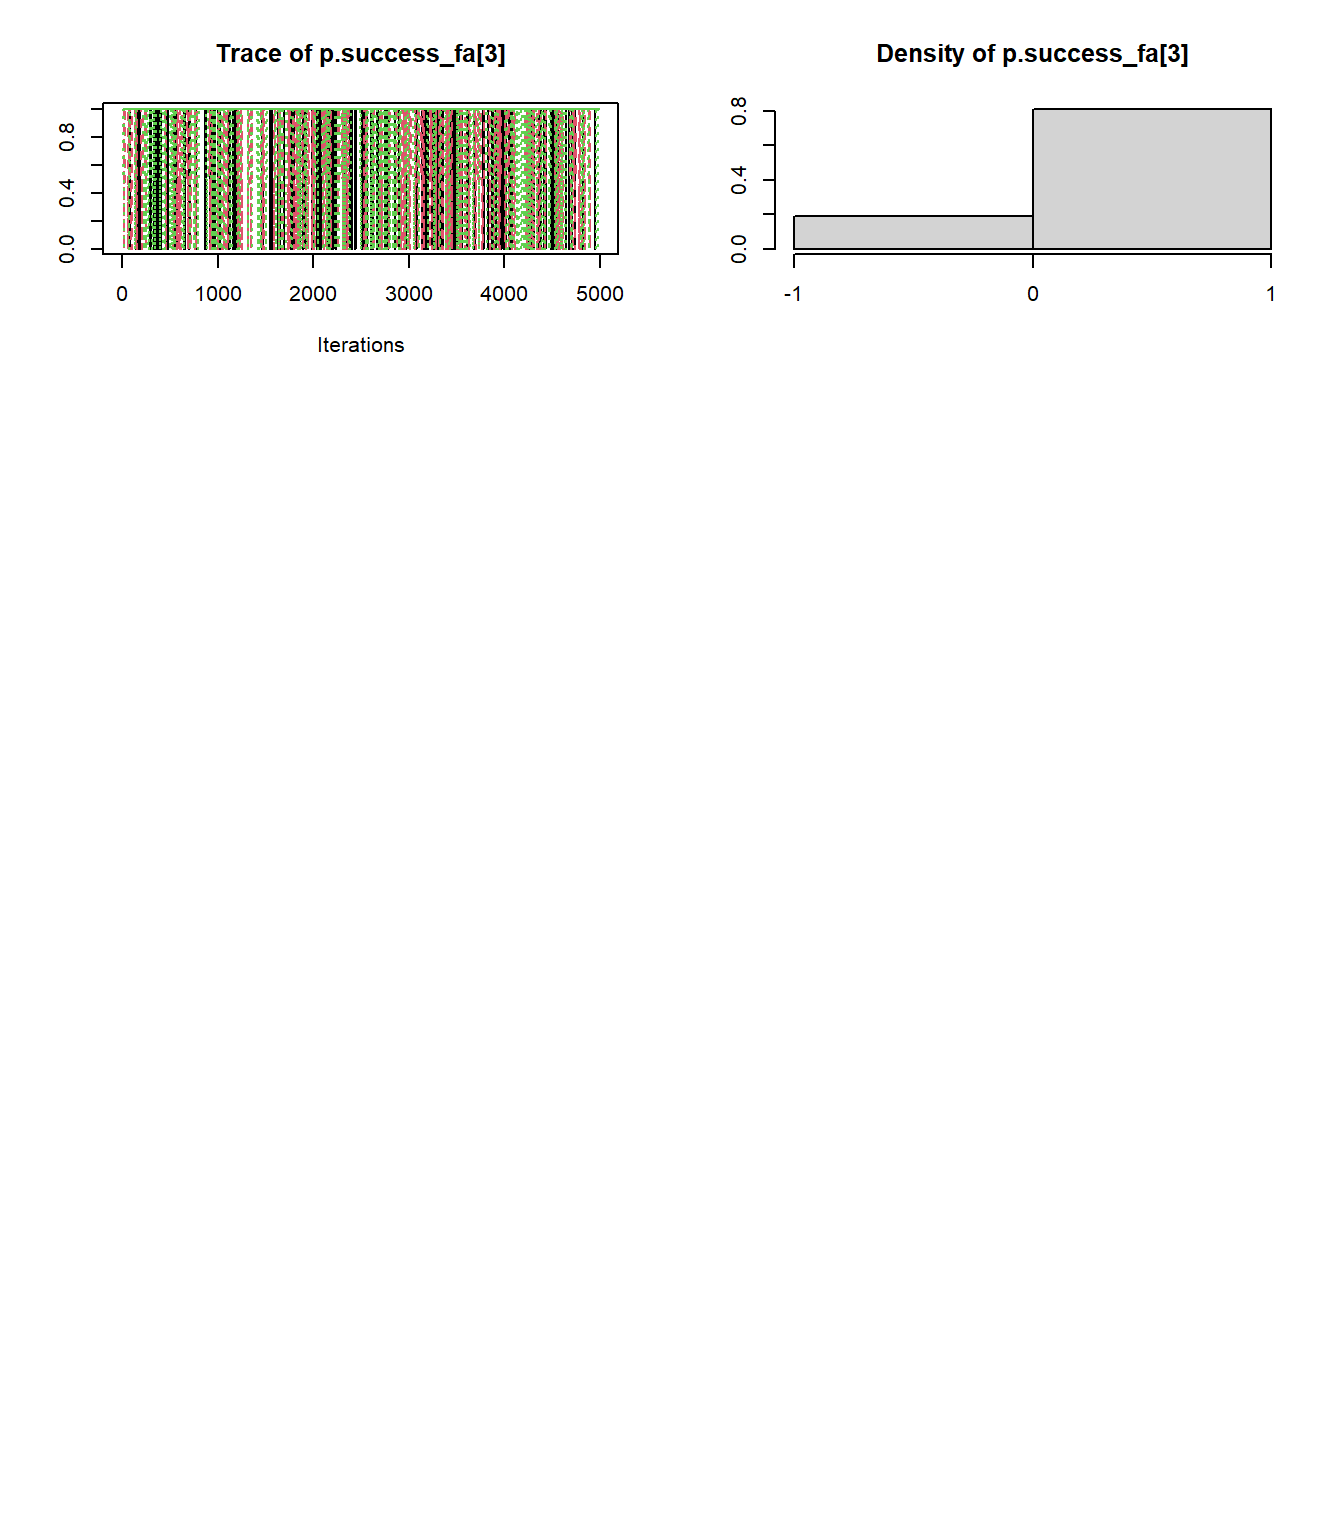
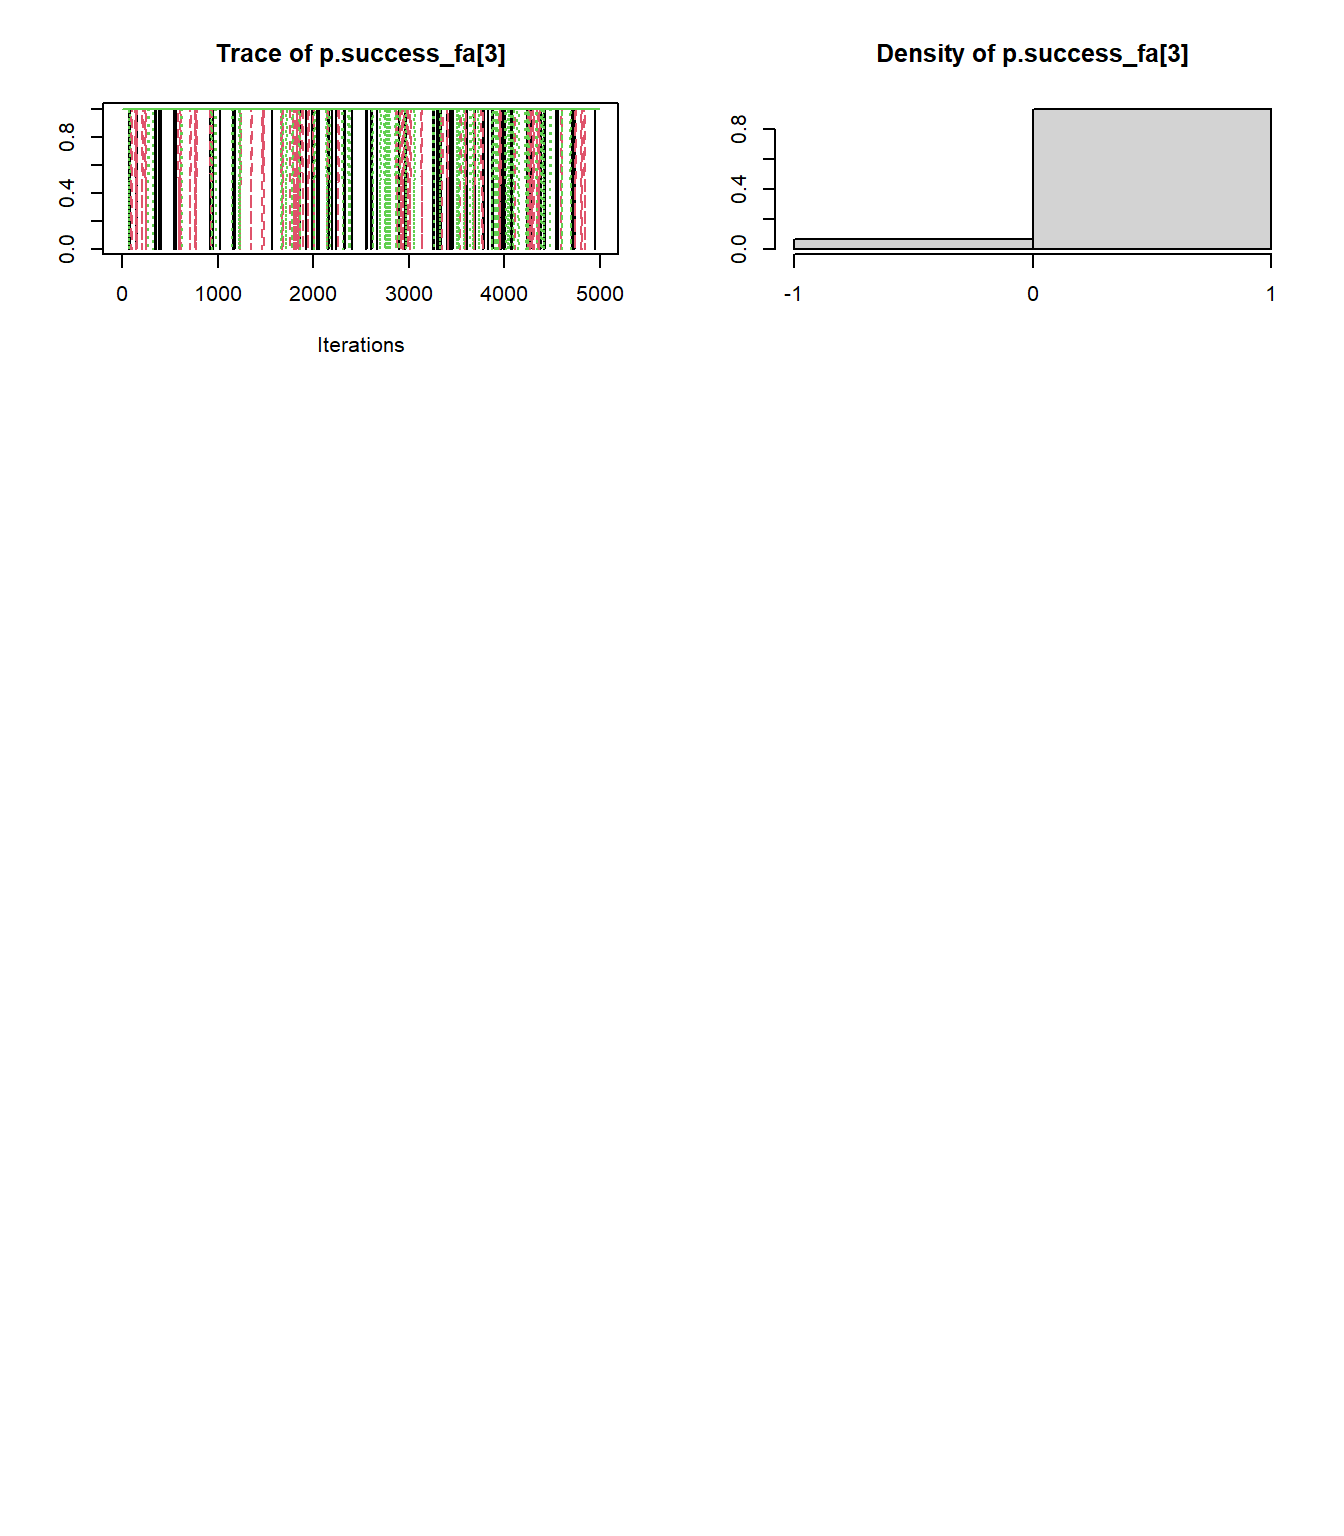
aaa

Changed region(s): [[0.0938, 0.0625, 0.4375, 0.1875], [0.5938, 0.125, 0.7812, 0.1562], [0.5312, 0.0625, 0.5625, 0.125]]

diff --git a/1_Bouquet_Borrowing_X_Cohort.html b/1_Bouquet_Borrowing_X_Cohort.html
@@ -344,10 +344,11 @@ binary_exnex_model2 &lt;- function() {
     }    
   }
 
-  # predictive part
+  # predictive part, not exactly the same as Appendix 5 in protocol but should be ~
   for (i in 1:Nstrata) {  
-    r_fa[i] ~ dbin(p[i], n_fa[i])
-    p.fa[i] &lt;- r_fa[i]/n_fa[i]
+    # r_fa[i] ~ dbin(p[i], n_fa[i])
+    r_ex[i] ~ dbin(p[i], n_fa[i]-n[i])
+    p.fa[i] &lt;- (r_ex[i]+r[i])/n_fa[i]
     p.success_fa[i]  &lt;- step(p.fa[i]-p.cut)
   }
   
@@ -419,7 +420,7 @@ binary_exnex_jag2 &lt;- jags(data = data_binary_exnex_model2,
 ## Graph information:
 ##    Observed stochastic nodes: 3
 ##    Unobserved stochastic nodes: 28
-##    Total graph size: 112
+##    Total graph size: 118
 ## 
 ## Initializing model</code></pre>
 <pre class="r"><code>print(binary_exnex_jag2)</code></pre>
@@ -430,15 +431,15 @@ binary_exnex_jag2 &lt;- jags(data = data_binary_exnex_model2,
 ## p[1]              0.164   0.069 0.050 0.113  0.156  0.207  0.317 1.001  3000
 ## p[2]              0.154   0.064 0.048 0.107  0.148  0.193  0.291 1.004  1100
 ## p[3]              0.220   0.079 0.090 0.162  0.212  0.269  0.395 1.001  3000
-## p.fa[1]           0.162   0.084 0.020 0.100  0.160  0.220  0.360 1.001  3000
-## p.fa[2]           0.155   0.080 0.020 0.100  0.140  0.200  0.320 1.001  3000
-## p.fa[3]           0.221   0.099 0.060 0.140  0.220  0.280  0.440 1.001  3000
+## p.fa[1]           0.160   0.057 0.080 0.120  0.160  0.200  0.300 1.001  3000
+## p.fa[2]           0.150   0.052 0.060 0.120  0.140  0.180  0.260 1.001  2800
+## p.fa[3]           0.233   0.066 0.120 0.180  0.220  0.280  0.380 1.001  3000
 ## p.success[1]      0.536   0.499 0.000 0.000  1.000  1.000  1.000 1.001  3000
 ## p.success[2]      0.491   0.500 0.000 0.000  0.000  1.000  1.000 1.002  1200
 ## p.success[3]      0.802   0.398 0.000 1.000  1.000  1.000  1.000 1.002  1300
-## p.success_fa[1]   0.510   0.500 0.000 0.000  1.000  1.000  1.000 1.001  3000
-## p.success_fa[2]   0.484   0.500 0.000 0.000  0.000  1.000  1.000 1.001  3000
-## p.success_fa[3]   0.746   0.436 0.000 0.000  1.000  1.000  1.000 1.001  3000
+## p.success_fa[1]   0.520   0.500 0.000 0.000  1.000  1.000  1.000 1.001  3000
+## p.success_fa[2]   0.448   0.497 0.000 0.000  0.000  1.000  1.000 1.002  1900
+## p.success_fa[3]   0.915   0.279 0.000 1.000  1.000  1.000  1.000 1.001  3000
 ## pMix[1,1]         0.341   0.129 0.098 0.255  0.339  0.425  0.599 1.001  3000
 ## pMix[2,1]         0.348   0.133 0.086 0.257  0.349  0.436  0.615 1.001  3000
 ## pMix[3,1]         0.311   0.126 0.068 0.222  0.312  0.395  0.562 1.004  1700
@@ -467,29 +468,29 @@ binary_exnex_mcmc2 %&gt;% summary</code></pre>
 ## 1. Empirical mean and standard deviation for each variable,
 ##    plus standard error of the mean:
 ## 
-##                    Mean      SD Naive SE Time-series SE
-## deviance        11.2204 1.98427 0.036228       0.039478
-## p[1]             0.1638 0.06938 0.001267       0.001311
-## p[2]             0.1539 0.06370 0.001163       0.001174
-## p[3]             0.2196 0.07901 0.001443       0.001615
-## p.fa[1]          0.1622 0.08426 0.001538       0.001563
-## p.fa[2]          0.1549 0.07976 0.001456       0.001468
-## p.fa[3]          0.2215 0.09864 0.001801       0.001873
-## p.success[1]     0.5357 0.49881 0.009107       0.009095
-## p.success[2]     0.4913 0.50001 0.009129       0.009204
-## p.success[3]     0.8023 0.39831 0.007272       0.007776
-## p.success_fa[1]  0.5103 0.49998 0.009128       0.009131
-## p.success_fa[2]  0.4837 0.49982 0.009125       0.009272
-## p.success_fa[3]  0.7457 0.43556 0.007952       0.007964
-## pMix[1,1]        0.3408 0.12935 0.002362       0.002362
-## pMix[2,1]        0.3477 0.13303 0.002429       0.002687
-## pMix[3,1]        0.3115 0.12624 0.002305       0.002405
-## pMix[1,2]        0.3412 0.13472 0.002460       0.002546
-## pMix[2,2]        0.3455 0.13347 0.002437       0.002374
-## pMix[3,2]        0.3133 0.12850 0.002346       0.002222
-## pMix[1,3]        0.3378 0.13533 0.002471       0.002471
-## pMix[2,3]        0.3485 0.13557 0.002475       0.002476
-## pMix[3,3]        0.3137 0.12983 0.002370       0.002429
+##                    Mean      SD  Naive SE Time-series SE
+## deviance        11.2204 1.98427 0.0362276      0.0394784
+## p[1]             0.1638 0.06938 0.0012667      0.0013111
+## p[2]             0.1539 0.06370 0.0011629      0.0011741
+## p[3]             0.2196 0.07901 0.0014426      0.0016151
+## p.fa[1]          0.1603 0.05747 0.0010493      0.0010665
+## p.fa[2]          0.1498 0.05207 0.0009506      0.0009218
+## p.fa[3]          0.2334 0.06598 0.0012046      0.0012473
+## p.success[1]     0.5357 0.49881 0.0091070      0.0090947
+## p.success[2]     0.4913 0.50001 0.0091289      0.0092044
+## p.success[3]     0.8023 0.39831 0.0072720      0.0077760
+## p.success_fa[1]  0.5200 0.49968 0.0091229      0.0086369
+## p.success_fa[2]  0.4483 0.49741 0.0090814      0.0087323
+## p.success_fa[3]  0.9147 0.27942 0.0051016      0.0051028
+## pMix[1,1]        0.3408 0.12935 0.0023616      0.0023619
+## pMix[2,1]        0.3477 0.13303 0.0024289      0.0026866
+## pMix[3,1]        0.3115 0.12624 0.0023048      0.0024053
+## pMix[1,2]        0.3412 0.13472 0.0024597      0.0025460
+## pMix[2,2]        0.3455 0.13347 0.0024368      0.0023736
+## pMix[3,2]        0.3133 0.12850 0.0023461      0.0022220
+## pMix[1,3]        0.3378 0.13533 0.0024707      0.0024709
+## pMix[2,3]        0.3485 0.13557 0.0024751      0.0024757
+## pMix[3,3]        0.3137 0.12983 0.0023704      0.0024295
 ## 
 ## 2. Quantiles for each variable:
 ## 
@@ -498,15 +499,15 @@ binary_exnex_mcmc2 %&gt;% summary</code></pre>
 ## p[1]            0.05005 0.1133  0.1565  0.2068  0.3175
 ## p[2]            0.04785 0.1074  0.1483  0.1934  0.2907
 ## p[3]            0.09022 0.1617  0.2119  0.2688  0.3954
-## p.fa[1]         0.02000 0.1000  0.1600  0.2200  0.3600
-## p.fa[2]         0.02000 0.1000  0.1400  0.2000  0.3200
-## p.fa[3]         0.06000 0.1400  0.2200  0.2800  0.4400
+## p.fa[1]         0.08000 0.1200  0.1600  0.2000  0.3000
+## p.fa[2]         0.06000 0.1200  0.1400  0.1800  0.2600
+## p.fa[3]         0.12000 0.1800  0.2200  0.2800  0.3800
 ## p.success[1]    0.00000 0.0000  1.0000  1.0000  1.0000
 ## p.success[2]    0.00000 0.0000  0.0000  1.0000  1.0000
 ## p.success[3]    0.00000 1.0000  1.0000  1.0000  1.0000
 ## p.success_fa[1] 0.00000 0.0000  1.0000  1.0000  1.0000
 ## p.success_fa[2] 0.00000 0.0000  0.0000  1.0000  1.0000
-## p.success_fa[3] 0.00000 0.0000  1.0000  1.0000  1.0000
+## p.success_fa[3] 0.00000 1.0000  1.0000  1.0000  1.0000
 ## pMix[1,1]       0.09829 0.2547  0.3386  0.4251  0.5987
 ## pMix[2,1]       0.08593 0.2575  0.3489  0.4360  0.6152
 ## pMix[3,1]       0.06813 0.2217  0.3122  0.3953  0.5620
@@ -602,12 +603,14 @@ binary_exnex_model &lt;- function() {
     r[i] ~ dbin(p[i],n[i])
   }
 
-  # predictive part
+  # predictive part, not exactly the same as Appendix 5 in protocol but should be ~
   for (i in 1:Nstrata) {  
-    r_fa[i] ~ dbin(p[i], n_fa[i])
-    p.fa[i] &lt;- r_fa[i]/n_fa[i]
+    # r_fa[i] ~ dbin(p[i], n_fa[i])
+    r_ex[i] ~ dbin(p[i], n_fa[i]-n[i])
+    p.fa[i] &lt;- (r_ex[i]+r[i])/n_fa[i]
     p.success_fa[i]  &lt;- step(p.fa[i]-p.cut)
   }
+  
 } # end of binary_exnex_model
 
 write.model(binary_exnex_model, &#39;binary_exnex_model.bug&#39;)
@@ -660,7 +663,7 @@ binary_ex_jag &lt;- jags(data = data_binary_ex_model,
 ## Graph information:
 ##    Observed stochastic nodes: 3
 ##    Unobserved stochastic nodes: 19
-##    Total graph size: 97
+##    Total graph size: 103
 ## 
 ## Initializing model</code></pre>
 <pre class="r"><code>print(binary_ex_jag)</code></pre>
@@ -671,15 +674,15 @@ binary_ex_jag &lt;- jags(data = data_binary_ex_model,
 ## p[1]              0.171   0.063 0.062 0.127  0.165  0.210  0.310 1.001  3000
 ## p[2]              0.166   0.061 0.066 0.122  0.160  0.202  0.308 1.003   830
 ## p[3]              0.203   0.070 0.091 0.153  0.193  0.243  0.366 1.004   620
-## p.fa[1]           0.171   0.082 0.040 0.120  0.160  0.220  0.360 1.001  3000
-## p.fa[2]           0.166   0.081 0.040 0.100  0.160  0.220  0.340 1.001  2000
-## p.fa[3]           0.202   0.088 0.060 0.140  0.200  0.260  0.400 1.003   870
+## p.fa[1]           0.166   0.057 0.080 0.120  0.160  0.200  0.300 1.001  3000
+## p.fa[2]           0.157   0.053 0.060 0.120  0.160  0.180  0.280 1.002  1800
+## p.fa[3]           0.221   0.059 0.120 0.180  0.220  0.260  0.360 1.002  1500
 ## p.success[1]      0.594   0.491 0.000 0.000  1.000  1.000  1.000 1.001  3000
 ## p.success[2]      0.573   0.495 0.000 0.000  1.000  1.000  1.000 1.003   880
 ## p.success[3]      0.767   0.423 0.000 1.000  1.000  1.000  1.000 1.002  1400
-## p.success_fa[1]   0.560   0.496 0.000 0.000  1.000  1.000  1.000 1.001  3000
-## p.success_fa[2]   0.542   0.498 0.000 0.000  1.000  1.000  1.000 1.002  1300
-## p.success_fa[3]   0.698   0.459 0.000 0.000  1.000  1.000  1.000 1.001  3000
+## p.success_fa[1]   0.575   0.494 0.000 0.000  1.000  1.000  1.000 1.001  3000
+## p.success_fa[2]   0.508   0.500 0.000 0.000  1.000  1.000  1.000 1.002  1600
+## p.success_fa[3]   0.904   0.294 0.000 1.000  1.000  1.000  1.000 1.003  1500
 ## deviance         11.016   1.824 9.059 9.797 10.485 11.670 16.103 1.001  3000
 ## 
 ## For each parameter, n.eff is a crude measure of effective sample size,
@@ -704,15 +707,15 @@ binary_ex_mcmc %&gt;% summary</code></pre>
 ## p[1]             0.1706 0.06302 0.001151       0.001403
 ## p[2]             0.1659 0.06123 0.001118       0.001955
 ## p[3]             0.2033 0.07032 0.001284       0.002235
-## p.fa[1]          0.1708 0.08212 0.001499       0.001607
-## p.fa[2]          0.1664 0.08062 0.001472       0.002095
-## p.fa[3]          0.2016 0.08831 0.001612       0.002446
+## p.fa[1]          0.1662 0.05694 0.001040       0.001096
+## p.fa[2]          0.1567 0.05329 0.000973       0.001346
+## p.fa[3]          0.2207 0.05930 0.001083       0.001556
 ## p.success[1]     0.5940 0.49117 0.008967       0.010056
 ## p.success[2]     0.5727 0.49477 0.009033       0.013567
 ## p.success[3]     0.7667 0.42302 0.007723       0.010727
-## p.success_fa[1]  0.5600 0.49647 0.009064       0.010249
-## p.success_fa[2]  0.5417 0.49834 0.009098       0.013113
-## p.success_fa[3]  0.6980 0.45920 0.008384       0.010272
+## p.success_fa[1]  0.5753 0.49437 0.009026       0.009228
+## p.success_fa[2]  0.5077 0.50002 0.009129       0.012069
+## p.success_fa[3]  0.9043 0.29418 0.005371       0.005668
 ## 
 ## 2. Quantiles for each variable:
 ## 
@@ -721,15 +724,15 @@ binary_ex_mcmc %&gt;% summary</code></pre>
 ## p[1]            0.06250 0.1268  0.1648  0.2100  0.3096
 ## p[2]            0.06605 0.1223  0.1600  0.2020  0.3080
 ## p[3]            0.09142 0.1527  0.1930  0.2426  0.3657
-## p.fa[1]         0.04000 0.1200  0.1600  0.2200  0.3600
-## p.fa[2]         0.04000 0.1000  0.1600  0.2200  0.3400
-## p.fa[3]         0.06000 0.1400  0.2000  0.2600  0.4000
+## p.fa[1]         0.08000 0.1200  0.1600  0.2000  0.3000
+## p.fa[2]         0.06000 0.1200  0.1600  0.1800  0.2800
+## p.fa[3]         0.12000 0.1800  0.2200  0.2600  0.3600
 ## p.success[1]    0.00000 0.0000  1.0000  1.0000  1.0000
 ## p.success[2]    0.00000 0.0000  1.0000  1.0000  1.0000
 ## p.success[3]    0.00000 1.0000  1.0000  1.0000  1.0000
 ## p.success_fa[1] 0.00000 0.0000  1.0000  1.0000  1.0000
 ## p.success_fa[2] 0.00000 0.0000  1.0000  1.0000  1.0000
-## p.success_fa[3] 0.00000 0.0000  1.0000  1.0000  1.0000</code></pre>
+## p.success_fa[3] 0.00000 1.0000  1.0000  1.0000  1.0000</code></pre>
 <pre class="r"><code>binary_ex_mcmc %&gt;% gelman.plot</code></pre>
 <p><img src="1_Bouquet_Borrowing_X_Cohort_files/figure-html/unnamed-chunk-2-1.png" width="672" /><img src="1_Bouquet_Borrowing_X_Cohort_files/figure-html/unnamed-chunk-2-2.png" width="672" /></p>
 <pre class="r"><code>binary_ex_mcmc %&gt;% plot</code></pre>
@@ -746,7 +749,7 @@ binary_nex_jag &lt;- jags(data = data_binary_nex_model,
 ## Graph information:
 ##    Observed stochastic nodes: 3
 ##    Unobserved stochastic nodes: 19
-##    Total graph size: 97
+##    Total graph size: 103
 ## 
 ## Initializing model</code></pre>
 <pre class="r"><code>print(binary_nex_jag)</code></pre>
@@ -757,15 +760,15 @@ binary_nex_jag &lt;- jags(data = data_binary_nex_model,
 ## p[1]              0.158   0.081 0.035  0.098  0.146  0.209  0.344 1.001  3000
 ## p[2]              0.142   0.075 0.030  0.085  0.132  0.190  0.317 1.011   200
 ## p[3]              0.246   0.091 0.097  0.180  0.239  0.304  0.444 1.005   540
-## p.fa[1]           0.160   0.095 0.020  0.080  0.140  0.220  0.380 1.001  3000
-## p.fa[2]           0.142   0.089 0.020  0.080  0.120  0.200  0.360 1.010   210
-## p.fa[3]           0.247   0.108 0.060  0.160  0.240  0.320  0.480 1.003   670
+## p.fa[1]           0.159   0.064 0.060  0.120  0.150  0.200  0.300 1.001  3000
+## p.fa[2]           0.142   0.057 0.060  0.100  0.140  0.180  0.280 1.009   220
+## p.fa[3]           0.248   0.071 0.120  0.200  0.240  0.300  0.400 1.003   740
 ## p.success[1]      0.482   0.500 0.000  0.000  0.000  1.000  1.000 1.002  1900
 ## p.success[2]      0.409   0.492 0.000  0.000  0.000  1.000  1.000 1.010   220
 ## p.success[3]      0.852   0.355 0.000  1.000  1.000  1.000  1.000 1.003  1000
-## p.success_fa[1]   0.486   0.500 0.000  0.000  0.000  1.000  1.000 1.001  3000
-## p.success_fa[2]   0.417   0.493 0.000  0.000  0.000  1.000  1.000 1.006   340
-## p.success_fa[3]   0.812   0.391 0.000  1.000  1.000  1.000  1.000 1.005   600
+## p.success_fa[1]   0.500   0.500 0.000  0.000  0.500  1.000  1.000 1.001  3000
+## p.success_fa[2]   0.396   0.489 0.000  0.000  0.000  1.000  1.000 1.007   330
+## p.success_fa[3]   0.934   0.248 0.000  1.000  1.000  1.000  1.000 1.001  3000
 ## deviance         11.993   2.532 9.093 10.175 11.316 13.094 18.596 1.001  3000
 ## 
 ## For each parameter, n.eff is a crude measure of effective sample size,
@@ -790,15 +793,15 @@ binary_nex_mcmc %&gt;% summary</code></pre>
 ## p[1]             0.1582 0.08140 0.001486       0.001486
 ## p[2]             0.1422 0.07496 0.001369       0.003226
 ## p[3]             0.2461 0.09089 0.001659       0.002867
-## p.fa[1]          0.1597 0.09513 0.001737       0.001737
-## p.fa[2]          0.1424 0.08851 0.001616       0.003380
-## p.fa[3]          0.2469 0.10833 0.001978       0.003072
+## p.fa[1]          0.1593 0.06372 0.001163       0.001164
+## p.fa[2]          0.1424 0.05674 0.001036       0.002016
+## p.fa[3]          0.2484 0.07106 0.001297       0.001941
 ## p.success[1]     0.4820 0.49976 0.009124       0.009327
 ## p.success[2]     0.4087 0.49167 0.008977       0.017289
 ## p.success[3]     0.8517 0.35549 0.006490       0.009896
-## p.success_fa[1]  0.4857 0.49988 0.009126       0.008720
-## p.success_fa[2]  0.4170 0.49315 0.009004       0.015557
-## p.success_fa[3]  0.8117 0.39104 0.007139       0.008929
+## p.success_fa[1]  0.5000 0.50008 0.009130       0.008884
+## p.success_fa[2]  0.3960 0.48915 0.008931       0.014396
+## p.success_fa[3]  0.9343 0.24774 0.004523       0.005739
 ## 
 ## 2. Quantiles for each variable:
 ## 
@@ -807,13 +810,13 @@ binary_nex_mcmc %&gt;% summary</code></pre>
 ## p[1]            0.03546  0.09807  0.1460  0.2089  0.3444
 ## p[2]            0.02997  0.08499  0.1317  0.1901  0.3168
 ## p[3]            0.09680  0.17980  0.2388  0.3035  0.4441
-## p.fa[1]         0.02000  0.08000  0.1400  0.2200  0.3800
-## p.fa[2]         0.02000  0.08000  0.1200  0.2000  0.3600
-## p.fa[3]         0.06000  0.16000  0.2400  0.3200  0.4800
+## p.fa[1]         0.06000  0.12000  0.1500  0.2000  0.3000
+## p.fa[2]         0.06000  0.10000  0.1400  0.1800  0.2800
+## p.fa[3]         0.12000  0.20000  0.2400  0.3000  0.4000
 ## p.success[1]    0.00000  0.00000  0.0000  1.0000  1.0000
 ## p.success[2]    0.00000  0.00000  0.0000  1.0000  1.0000
 ## p.success[3]    0.00000  1.00000  1.0000  1.0000  1.0000
-## p.success_fa[1] 0.00000  0.00000  0.0000  1.0000  1.0000
+## p.success_fa[1] 0.00000  0.00000  0.5000  1.0000  1.0000
 ## p.success_fa[2] 0.00000  0.00000  0.0000  1.0000  1.0000
 ## p.success_fa[3] 0.00000  1.00000  1.0000  1.0000  1.0000</code></pre>
 <pre class="r"><code>binary_nex_mcmc %&gt;% gelman.plot</code></pre>
